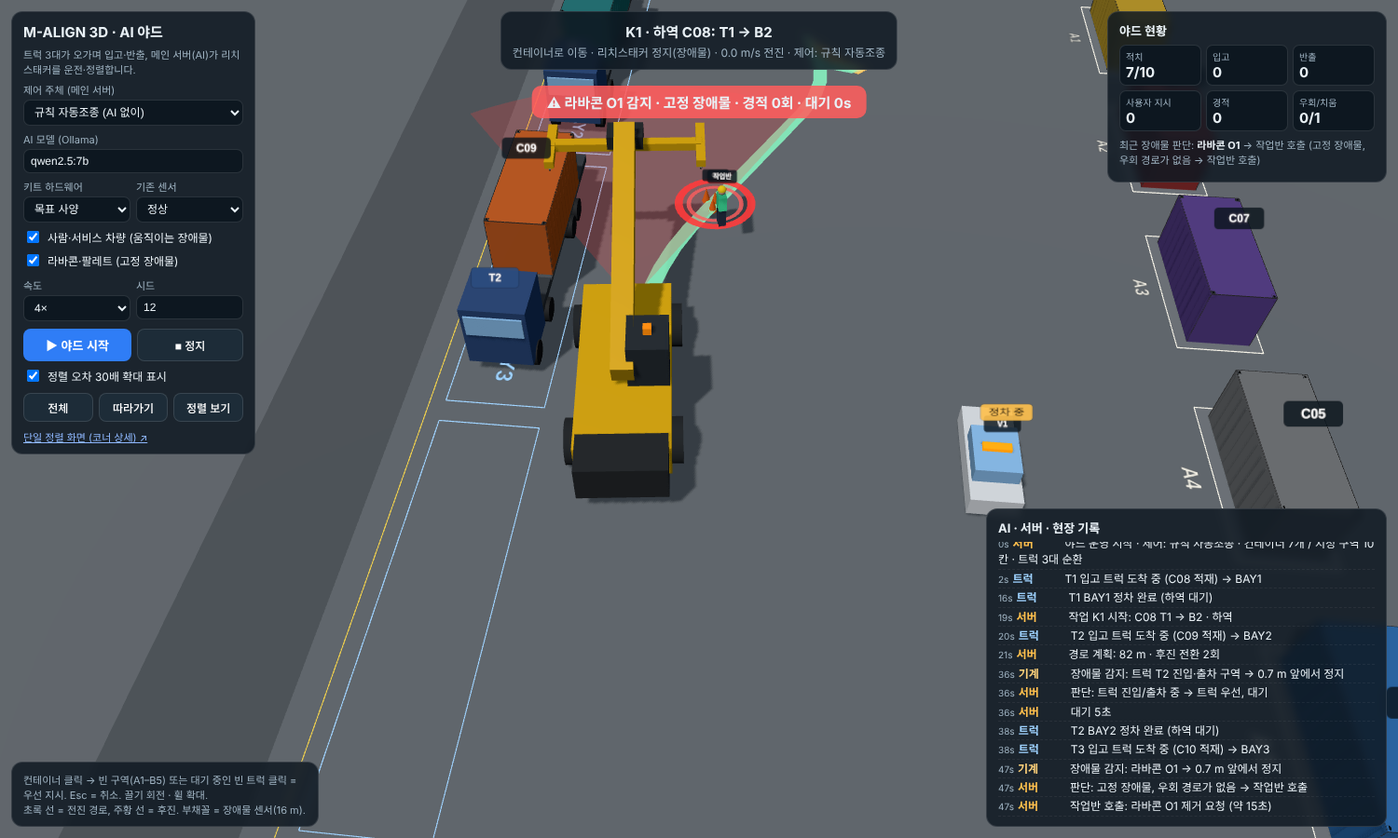
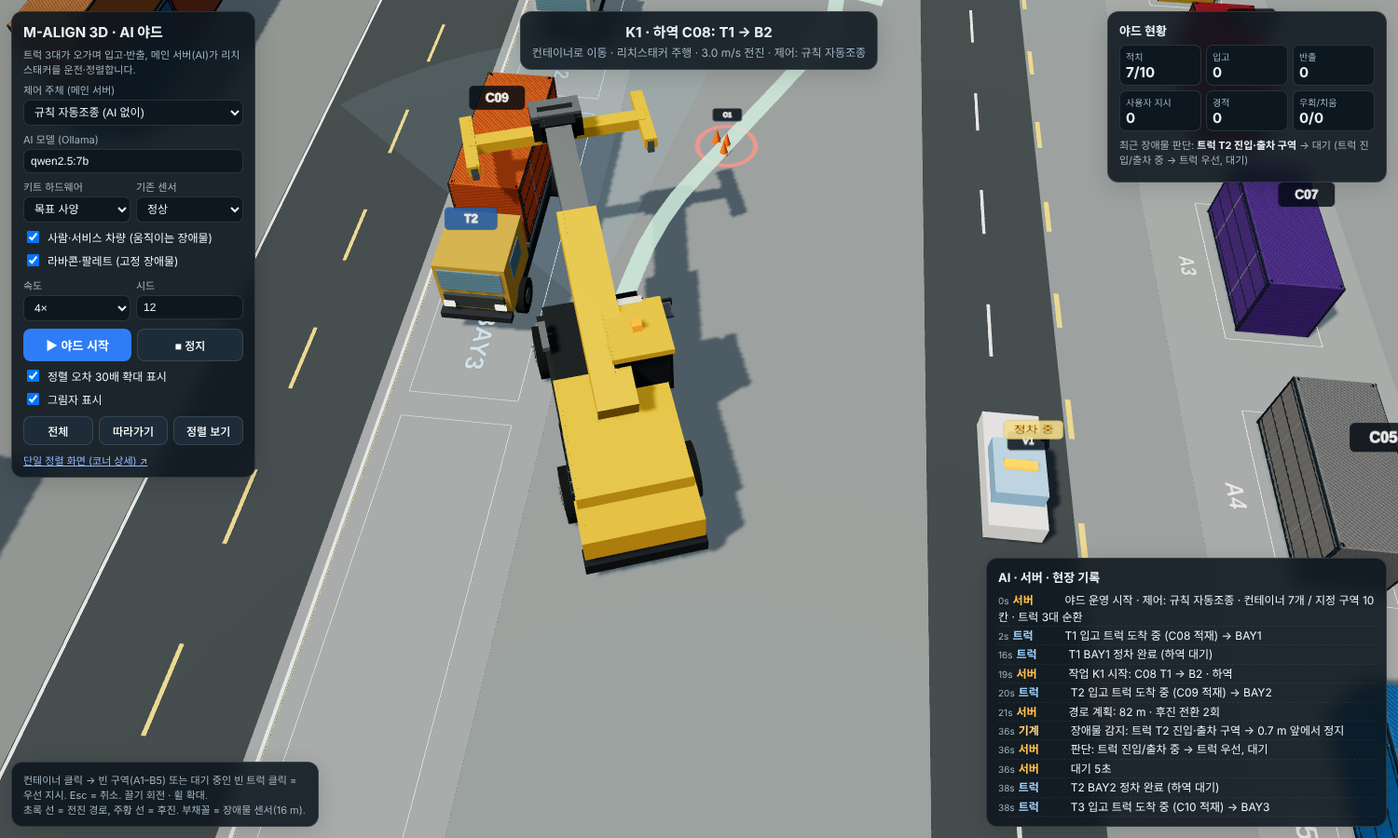
야드 3D 화면: 참고 HTML 비주얼 적용 + 재시작 시 키트 명령 ID 중복 수정
- 톤매핑·조명, 아스팔트 차로/서비스 도로/에이프런, 골판 컨테이너, 상세 트럭, 원경 적치·창고·갠트리 크레인
- 리치스태커 상세 모델: 후륜 조향 각도·바퀴 회전 표시, 텔레스코픽 붐·유압 실린더, 스프레더 상세
- 그림자 표시 토글
- LocalSim 명령 ID를 실행마다 고유하게 (재시작 후 키트가 중복으로 무시하던 문제)

Claude-Session: https://claude.ai/code/session_011pBbNqiHExWoQCh8MXwH7n

diff --git a/app/MALIGN_3D.html b/app/MALIGN_3D.html
@@ -5,10 +5,10 @@
 <meta name="viewport" content="width=device-width,initial-scale=1">
 <title>M-ALIGN 3D · AI 컨테이너 야드</title>
 <style>
-:root{--ink:#e9f1f6;--muted:#9fb3c2;--panel:rgba(14,24,33,.84);--line:rgba(255,255,255,.12);--ok:#3ddc97;--bad:#ff5d5d;--warn:#ffc04d;--ai:#8fb8ff}
-*{box-sizing:border-box}html,body{margin:0;height:100%;overflow:hidden;background:#9fbcd0;font-family:"Malgun Gothic","Apple SD Gothic Neo","Noto Sans KR",system-ui,sans-serif;color:var(--ink)}
+:root{--ink:#e9f1f6;--muted:#9fb3c2;--panel:rgba(12,22,30,.88);--line:rgba(255,255,255,.12);--ok:#3ddc97;--bad:#ff5d5d;--warn:#ffc04d;--ai:#8fb8ff}
+*{box-sizing:border-box}html,body{margin:0;height:100%;overflow:hidden;background:#b7c9d5;font-family:"Malgun Gothic","Apple SD Gothic Neo","Noto Sans KR",system-ui,sans-serif;color:var(--ink)}
 canvas#scene{display:block;width:100vw;height:100vh}
-.panel{position:absolute;background:var(--panel);border:1px solid var(--line);border-radius:12px;padding:10px 12px;backdrop-filter:blur(4px)}
+.panel{position:absolute;background:var(--panel);border:1px solid var(--line);border-radius:12px;padding:10px 12px;backdrop-filter:blur(10px);box-shadow:0 5px 24px rgba(0,0,0,.15)}
 #ctrl{left:12px;top:12px;width:262px;max-height:calc(100vh - 24px);overflow:auto}#ctrl h1{font-size:15px;margin:0 0 6px}
 #ctrl label{display:block;font-size:11px;color:var(--muted);margin:6px 0 3px}
 #ctrl select,#ctrl input:not([type=checkbox]){width:100%;background:#0d1720;color:var(--ink);border:1px solid var(--line);border-radius:7px;padding:5px 7px;font-size:12px}
@@ -52,6 +52,7 @@ button.sec{background:#1d2c38;border:1px solid var(--line);font-weight:500;font-
  <div><label for="seed">시드</label><input id="seed" placeholder="무작위"></div></div>
  <div class="row"><button id="start">▶ 야드 시작</button><button id="stop" class="sec" style="margin-top:8px">■ 정지</button></div>
  <label class="chk"><input type="checkbox" id="exag" checked> 정렬 오차 30배 확대 표시</label>
+ <label class="chk"><input type="checkbox" id="shadows" checked> 그림자 표시</label>
  <div class="row"><button class="sec" data-cam="all">전체</button><button class="sec" data-cam="follow">따라가기</button><button class="sec" data-cam="align">정렬 보기</button></div>
  <div style="font-size:11px;margin-top:8px"><a href="/3d-align" target="_blank" style="color:var(--ai)">단일 정렬 화면 (코너 상세) ↗</a></div>
 </div>
@@ -84,16 +85,17 @@ const esc = s => String(s).replace(/[&<>"]/g, c => ({'&': '&amp;', '<': '&lt;', 
 // ---------------- scene ----------------
 const canvas = $('scene');
 const renderer = new THREE.WebGLRenderer({canvas, antialias: true, preserveDrawingBuffer: true});
-renderer.setPixelRatio(Math.min(2, window.devicePixelRatio || 1)); renderer.shadowMap.enabled = true;
-const scene = new THREE.Scene(); scene.background = new THREE.Color(0x9fbcd0); scene.fog = new THREE.Fog(0x9fbcd0, 110, 260);
+renderer.setPixelRatio(Math.min(1.5, window.devicePixelRatio || 1)); renderer.shadowMap.enabled = true;
+renderer.outputColorSpace = THREE.SRGBColorSpace; renderer.toneMapping = THREE.ACESFilmicToneMapping; renderer.toneMappingExposure = 1.55;
+const scene = new THREE.Scene(); scene.background = new THREE.Color(0xb7c9d5); scene.fog = new THREE.Fog(0xb7c9d5, 120, 300);
 const camera = new THREE.PerspectiveCamera(45, 1, 0.1, 600);
-const HOME = {pos: new THREE.Vector3(-8, 78, 78), look: new THREE.Vector3(0, 0, 0)};
+const HOME = {pos: new THREE.Vector3(-52, 52, 72), look: new THREE.Vector3(0, 0, 0)};
 camera.position.copy(HOME.pos);
 const controls = new OrbitControls(camera, canvas); controls.target.copy(HOME.look); controls.enableDamping = true; controls.maxPolarAngle = Math.PI * .48;
-scene.add(new THREE.HemisphereLight(0xdfefff, 0x4a4a40, 1.1));
-const sun = new THREE.DirectionalLight(0xffffff, 1.9); sun.position.set(30, 60, 20); sun.castShadow = true;
-sun.shadow.mapSize.set(2048, 2048); Object.assign(sun.shadow.camera, {left: -70, right: 70, top: 70, bottom: -70, far: 200}); scene.add(sun);
-const ground = new THREE.Mesh(new THREE.PlaneGeometry(400, 400), new THREE.MeshStandardMaterial({color: 0x6b6f72, roughness: .95}));
+scene.add(new THREE.HemisphereLight(0xe4f1ff, 0x4a4a40, 1.1));
+const sun = new THREE.DirectionalLight(0xfff1dc, 2.15); sun.position.set(35, 70, 36); sun.castShadow = true;
+sun.shadow.mapSize.set(2048, 2048); Object.assign(sun.shadow.camera, {left: -80, right: 80, top: 80, bottom: -80, far: 200}); scene.add(sun);
+const ground = new THREE.Mesh(new THREE.PlaneGeometry(400, 400), new THREE.MeshStandardMaterial({color: 0x757b7c, roughness: 1}));
 ground.rotation.x = -Math.PI / 2; ground.receiveShadow = true; scene.add(ground);
 const std = (c, o = {}) => new THREE.MeshStandardMaterial(Object.assign({color: c, roughness: .7, metalness: .1}, o));
 function box(w, h, d, mat, x = 0, y = 0, z = 0){ const m = new THREE.Mesh(new THREE.BoxGeometry(w, h, d), mat); m.position.set(x, y, z); m.castShadow = m.receiveShadow = true; return m; }
@@ -113,14 +115,82 @@ function rectLine(cx, cz, yaw, hx, hz, color, y = .03){ const g = new THREE.Line
 
 const L = 6.058, W = 2.438, H = 2.591, CX = 2.9265, CY = 1.1295, DOCK = W / 2 + 6.3;
 const CORNERS = [[-CX, CY], [CX, CY], [CX, -CY], [-CX, -CY]];
-// yard markings
+// ---------------- terminal environment (low-poly) ----------------
+const asphalt = std(0x434b4f, {roughness: 1}), concrete = std(0x828a8c, {roughness: 1}), apronMat = std(0x8d9496, {roughness: 1});
+const lineWhite = new THREE.MeshBasicMaterial({color: 0xdce0d7}), lineYellow = new THREE.MeshBasicMaterial({color: 0xe8b954});
+const trim = std(0xb5bfc4, {metalness: .45, roughness: .52}), gantry = std(0xa5b3ad, {metalness: .35, roughness: .66});
+function placeRect(w, d, mat, x, z, y = .018){ const m = box(w, .025, d, mat, x, y, z); m.castShadow = false; scene.add(m); return m; }
+placeRect(94, 77, concrete, 0, -2.75, .008);                                    // yard pavement (stacker area)
+placeRect(240, 7, asphalt, 0, 38, .012);                                        // truck lane
+for (let x = -110; x <= 110; x += 6) placeRect(2.7, .13, lineYellow, x, 38, .045);
+for (const z of [34.6, 41.4]) placeRect(240, .1, lineWhite, 0, z, .045);
+// service road (car loop) and its centre dashes
+placeRect(84, 4.6, asphalt, 0, -32, .016); placeRect(84, 4.6, asphalt, 0, 14, .016);
+placeRect(4.6, 50.6, asphalt, -40, -9, .016); placeRect(4.6, 50.6, asphalt, 40, -9, .016);
+for (let x = -36; x <= 36; x += 6){ placeRect(2.4, .12, lineWhite, x, -32, .05); placeRect(2.4, .12, lineWhite, x, 14, .05); }
+for (let z = -28; z <= 10; z += 6){ placeRect(.12, 2.4, lineWhite, -40, z, .05); placeRect(.12, 2.4, lineWhite, 40, z, .05); }
+placeRect(54, 7.5, apronMat, -4, 4, .02); placeRect(54, 7.5, apronMat, -4, -14, .02);     // stacking aprons (rows A, B)
+placeRect(54, 6, apronMat, -4, 32, .02);                                         // truck bays apron
+// yellow guide lines along the stacker approach aisles
+for (let i = 0; i < 12; i++){ placeRect(1.6, .18, lineYellow, -30 + i * 4.8, 11.5, .055); placeRect(1.6, .18, lineYellow, -30 + i * 4.8, -21.5, .055); }
 scene.add(rectLine(0, -2.75, 0, 46, 37.25, 0xf2d24b));                      // where the stacker may drive
-const lane = new THREE.Mesh(new THREE.PlaneGeometry(200, 5), new THREE.MeshStandardMaterial({color: 0x55595c, roughness: 1}));
-lane.rotation.x = -Math.PI / 2; lane.position.set(0, .01, 38); scene.add(lane);
-const laneTxt = flatText('트럭 차로 →', 8, 2.6, '#d9dde0'); laneTxt.position.set(-38, .03, 38); scene.add(laneTxt);
-for (const [x, z] of [[-36, -26], [28, -27], [-38, 20], [30, 21]]){ const p = new THREE.Mesh(new THREE.CylinderGeometry(.22, .3, 11, 12), std(0x9aa3a8, {metalness: .5})); p.position.set(x, 5.5, z); p.castShadow = true; scene.add(p);
-  scene.add(box(1.4, .25, .5, std(0xeeeeee, {emissive: 0xfff4c8, emissiveIntensity: .5}), x, 11, z)); }
-scene.add(box(8, 3.4, 4, std(0xc9ccc5), 40, 1.7, -37.5)); { const t = label('현장 사무소', 3.4, 1.2); t.position.set(40, 4.6, -37.5); scene.add(t); }
+const laneTxt = flatText('트럭 차로 →', 8, 2.6, '#d9dde0'); laneTxt.position.set(-38, .06, 38); scene.add(laneTxt);
+// lighting masts (they are real obstacles in the planner: same positions)
+const lampGlow = new THREE.MeshBasicMaterial({color: 0xf9edc5});
+for (const [x, z] of [[-36, -26], [28, -27], [-38, 20], [30, 21]]){ const pole = new THREE.Group(); pole.position.set(x, 0, z); scene.add(pole);
+  pole.add(box(.5, .4, .5, std(0x6d7375), 0, .2, 0)); pole.add(box(.24, 13, .24, std(0x8c9797, {metalness: .7}), 0, 6.5, 0));
+  pole.add(box(2.0, .15, .33, gantry, .9, 13.1, 0)); pole.add(box(.65, .08, .28, lampGlow, 1.3, 13, 0)); }
+// site office
+{ const o = new THREE.Group(); o.position.set(40, 0, -37.5); scene.add(o);
+  o.add(box(8, 3.4, 4, std(0xc9ccc5), 0, 1.7, 0)); o.add(box(8.4, .25, 4.4, std(0x5b6870), 0, 3.5, 0));
+  for (const x of [-2.6, 0, 2.6]) o.add(box(1.4, .9, .05, std(0x52778a, {roughness: .12, metalness: .28}), x, 2.1, 2.03));
+  const t = label('현장 사무소', 3.4, 1.2); t.position.set(0, 5, 0); o.add(t); }
+
+// corrugated container (one geometry per side instead of many ribs)
+function corrugatedSide(length, height, depth, flip = 1){
+  const points = [], faces = [], y0 = .19, y1 = height - .13, n = Math.round(length / .29);
+  for (let i = 0; i <= n * 2; i++){ const x = -length / 2 + (i / (n * 2)) * length, z = flip * (depth / 2 + .016 + (i % 2 === 0 ? .033 : 0));
+    points.push(x, y0, z, x, y1, z); if (i > 0){ const a = (i - 1) * 2, b = i * 2; faces.push(a, a + 1, b, a + 1, b + 1, b); } }
+  const geom = new THREE.BufferGeometry(); geom.setAttribute('position', new THREE.Float32BufferAttribute(points, 3)); geom.setIndex(faces); geom.computeVertexNormals(); return geom;
+}
+const frameMat = std(0x273b46, {roughness: .6, metalness: .25}), castMat = std(0x263843, {metalness: .36});
+function cargoBox(col, extra = true){
+  const g = new THREE.Group(), mat = std(col, {metalness: .1, roughness: .8, side: THREE.DoubleSide});
+  const main = box(L, H, W, mat, 0, H / 2, 0); g.add(main);
+  for (const f of [1, -1]){ const side = new THREE.Mesh(corrugatedSide(L, H, W, f), mat); side.castShadow = true; g.add(side); }
+  for (const x of [-2.99, 2.99]){ g.add(box(.08, 2.56, .085, frameMat, x, 1.30, 1.225)); g.add(box(.08, 2.56, .085, frameMat, x, 1.30, -1.225)); }
+  for (const y of [.12, 2.53]){ g.add(box(5.95, .07, .08, frameMat, 0, y, 1.22)); g.add(box(5.95, .07, .08, frameMat, 0, y, -1.22)); }
+  if (extra){ for (const x of [-1.44, 1.44]) g.add(box(.026, 2.32, .04, trim, x, 1.30, -1.247));
+    for (let y = .35; y < 2.4; y += .68) g.add(box(5.96, .025, .044, frameMat, 0, y, -1.249)); }
+  return {g, main};
+}
+// distant stacks, warehouse and a working gantry crane (decor, outside the yard)
+function placeStacks(x, z, rows = 2, layers = 2, axis = 'x'){
+  const cols = [0x476c85, 0x9c5940, 0x597265, 0xb9ae8e, 0x4a7193, 0xa46d3e];
+  for (let a = 0; a < rows; a++) for (let layer = 0; layer < layers; layer++){
+    const {g} = cargoBox(cols[(a * 3 + layer + Math.abs(Math.round(x + z))) % cols.length], false);
+    g.position.set(x + (axis === 'x' ? a * 6.18 : 0), layer * 2.6, z + (axis === 'z' ? a * 2.65 : 0)); scene.add(g); } }
+placeStacks(-30, -52, 4, 3); placeStacks(14, -52, 3, 2); placeStacks(-34, 50, 5, 2); placeStacks(16, 50, 3, 3);
+placeStacks(-60, -22, 3, 2, 'z'); placeStacks(-60, 6, 4, 3, 'z');
+{ const wh = new THREE.Group(); wh.position.set(-84, 0, -6); scene.add(wh);
+  wh.add(box(24, 9, 42, std(0x71818a), 0, 4.5, 0)); wh.add(box(25, .5, 43, std(0x4c5961), 0, 9.2, 0));
+  for (let z = -16; z <= 16; z += 8) wh.add(box(.12, 6.1, 4.3, std(0x2d454f), 12.12, 3.2, z)); }
+const crane = new THREE.Group(); crane.position.set(70, 0, -10); scene.add(crane);
+for (const z of [-15, 15]){ for (const x of [-5, 5]) crane.add(box(.62, 17, .62, gantry, x, 8.5, z)); crane.add(box(11, .65, .8, gantry, 0, 16.7, z)); }
+for (const x of [-5, 5]) crane.add(box(.15, .15, 30.7, gantry, x, 17.5, 0));
+crane.add(box(13, 1.12, 32, gantry, 0, 18.1, 0));
+const trolley = new THREE.Group(); crane.add(trolley); trolley.position.set(0, 17.3, 0); trolley.add(box(3, .65, 2.6, std(0xe8b84d), 0, 0, 0));
+const craneRopes = []; for (const x of [-1.1, 1.1]) for (const z of [-.8, .8]){ const r = box(.05, 1, .05, trim); crane.add(r); craneRopes.push({r, x, z}); }
+const craneLoad = cargoBox(0x8e573d, false).g; crane.add(craneLoad);
+function updateCrane(seconds){
+  const t = seconds % 34, lerp = (a, b, k) => a + (b - a) * Math.max(0, Math.min(1, k)); let z, y, on;
+  if (t < 4){ z = -11; y = 0; on = false; } else if (t < 8){ z = -11; y = lerp(0, 9, (t - 4) / 4); on = true; }
+  else if (t < 13){ z = lerp(-11, .4, (t - 8) / 5); y = 9; on = true; } else if (t < 17){ z = .4; y = lerp(9, 0, (t - 13) / 4); on = true; }
+  else if (t < 21){ z = .4; y = 0; on = false; } else if (t < 24){ z = .4; y = lerp(0, 9, (t - 21) / 3); on = true; }
+  else if (t < 29){ z = lerp(.4, -11, (t - 24) / 5); y = 9; on = true; } else if (t < 33){ z = -11; y = lerp(9, 0, (t - 29) / 4); on = true; } else { z = -11; y = 0; on = false; }
+  craneLoad.position.set(0, y, z); trolley.position.z = z; const top = y + 2.59;
+  for (const c of craneRopes){ c.r.visible = on; if (on){ c.r.scale.y = Math.max(.1, 17.3 - top); c.r.position.set(c.x, (17.3 + top) / 2, z + c.z); } }
+}
 
 // ---------------- dynamic objects ----------------
 const pickables = [];
@@ -141,12 +211,9 @@ function makeBay(b){
 }
 const cont = {};
 function makeContainer(c){
-  const g = new THREE.Group(); const mat = std(new THREE.Color(c.color), {roughness: .8});
-  const b = box(L, H, W, mat, 0, H / 2, 0); b.userData = {cid: c.id}; g.add(b); pickables.push(b);
-  const ed = new THREE.LineSegments(new THREE.EdgesGeometry(new THREE.BoxGeometry(L, H, W)), new THREE.LineBasicMaterial({color: 0x222222})); ed.position.y = H / 2; g.add(ed);
-  for (let i = -11; i <= 11; i += 2) g.add(box(.05, H * .9, W + .01, std(new THREE.Color(c.color).multiplyScalar(.82)), i * .26, H / 2, 0));
+  const {g, main: b} = cargoBox(new THREE.Color(c.color)); b.userData = {cid: c.id}; pickables.push(b);
   const holes = [];
-  for (let k = 0; k < 4; k++){ g.add(box(.178, .118, .162, std(0x3c4247, {metalness: .5}), CORNERS[k][0], H - .059, CORNERS[k][1]));
+  for (let k = 0; k < 4; k++){ g.add(box(.178, .118, .162, castMat, CORNERS[k][0], H - .059, CORNERS[k][1]));
     const hole = new THREE.Mesh(new THREE.CircleGeometry(.05, 16), new THREE.MeshBasicMaterial({color: 0x050505})); hole.scale.set(1.25, .62, 1);
     hole.rotation.x = -Math.PI / 2; hole.position.set(CORNERS[k][0], H + .003, CORNERS[k][1]); g.add(hole); holes.push(hole); }
   const lb = label(c.id, 2.0, .9); lb.position.set(0, H + 1.3, 0); g.add(lb);
@@ -156,15 +223,21 @@ function makeContainer(c){
 }
 const truckObjs = {};
 function makeTruck(t){
-  const g = new THREE.Group();   // origin = container centre on the trailer, local +z = forward
-  const body = std(0x2b4c7e);
-  g.add(box(2.3, .35, 12.4, std(0x3a3f44), 0, 1.1, 1.0));
-  const cab = box(2.5, 2.7, 2.3, body, 0, 2.0, 6.3); cab.userData = {truck: t.id}; g.add(cab); pickables.push(cab);
-  g.add(box(2.2, .9, .1, std(0x9fd3ff, {roughness: .1}), 0, 2.6, 7.47));
-  const deck = box(2.4, .12, 6.4, std(0x555a5f), 0, 1.24, 0); deck.userData = {truck: t.id}; g.add(deck); pickables.push(deck);
-  for (const z of [-2.2, -1.0, 4.2, 6.6]) for (const x of [-1.1, 1.1]){ const w = new THREE.Mesh(new THREE.CylinderGeometry(.5, .5, .4, 16), std(0x1d1f21)); w.rotation.z = Math.PI / 2; w.position.set(x, .5, z); g.add(w); }
-  const lb = label(t.id, 1.8, .8, 'rgba(43,76,126,.9)'); lb.position.set(0, 4.0, 6.3); g.add(lb);
-  scene.add(g); return {g};
+  const g = new THREE.Group(), o = new THREE.Group(); o.position.z = 2.6; g.add(o);   // origin = container centre on the trailer, +z forward
+  const cabCol = {T1: 0xe0e4d9, T2: 0xd4a53e, T3: 0x86b7b2}[t.id] || 0xd9ecea;
+  const cabM = std(cabCol, {metalness: .24, roughness: .58}), chassis = std(0x303a40), glass = std(0x7096a6, {metalness: .1, roughness: .18});
+  o.add(box(2.5, .50, 9.0, chassis, 0, .94, -1.9));
+  const cab = box(2.48, 2.15, 2.65, cabM, 0, 2.12, 2.10); cab.userData = {truck: t.id}; o.add(cab); pickables.push(cab);
+  o.add(box(2.18, .9, .055, glass, 0, 2.59, 3.46)); for (const x of [-1.26, 1.26]) o.add(box(.045, .82, 1.2, glass, x, 2.56, 2.17));
+  o.add(box(2.5, .25, .34, std(0x31363b), 0, 1.06, 3.6)); o.add(box(2.1, .55, .16, std(0x444c4e), 0, 1.65, 3.47));
+  for (const x of [-.9, .9]){ o.add(box(.39, .25, .08, lampGlow, x, 1.51, 3.58)); o.add(box(.33, .23, .08, std(0xd94b3a), x, 1.10, -6.53)); }
+  const deck = box(2.48, .18, 6.3, std(0x848b8c), 0, 1.42, -2.65); deck.userData = {truck: t.id}; o.add(deck); pickables.push(deck);
+  const wheelmat = std(0x1f2427, {roughness: .98}), hub = std(0x9ca5a5, {metalness: .66, roughness: .3}), spins = [];
+  for (const z of [2.2, -3.8, -5.15]) for (const x of [-1.28, 1.28]){ const w = new THREE.Group(); w.position.set(x, .66, z); o.add(w); spins.push(w);
+    const tyre = new THREE.Mesh(new THREE.CylinderGeometry(.65, .65, .34, 20), wheelmat); tyre.rotation.z = Math.PI / 2; w.add(tyre);
+    const rim = new THREE.Mesh(new THREE.CylinderGeometry(.29, .29, .36, 16), hub); rim.rotation.z = Math.PI / 2; w.add(rim); }
+  const lb = label(t.id, 1.8, .8, 'rgba(43,76,126,.9)'); lb.position.set(0, 4.2, 4.7); g.add(lb);
+  scene.add(g); return {g, spins};
 }
 function makeWorker(w, vest = 0xff7a00){
   const g = new THREE.Group();
@@ -196,33 +269,57 @@ function makeDebris(d){
   g.position.set(d.x, 0, d.z); g.rotation.y = d.yaw; scene.add(g); return {g, ring, crew};
 }
 
-// ---------------- reach stacker (same model as the alignment view) ----------------
-const yellow = std(0xf2b705, {roughness: .55}), dark = std(0x222629, {roughness: .9}), steel = std(0x8d969c, {metalness: .6, roughness: .4});
-const stacker = new THREE.Group(); scene.add(stacker);
-stacker.add(box(3.4, 1.4, 8.2, yellow, 0, 1.55, -1.0)); stacker.add(box(3.2, 1.5, 1.6, dark, 0, 1.6, -5.3));
-stacker.add(box(1.5, 1.9, 1.7, std(0x30363b, {roughness: .3}), -.9, 3.15, -1.4));
-stacker.add(box(1.3, 1.5, 1.5, std(0x9fd3ff, {roughness: .1, opacity: .45, transparent: true}), -.9, 3.25, -1.4));
-const wheels = [];
-for (const [x, z] of [[-1.75, 2.2], [1.75, 2.2], [-1.75, -3.6], [1.75, -3.6]]){
-  const w = new THREE.Group(); w.position.set(x, .85, z); const m = new THREE.Mesh(new THREE.CylinderGeometry(.85, .85, .7, 24), dark); m.rotation.z = Math.PI / 2; m.castShadow = true; w.add(m); stacker.add(w); wheels.push(w); }
-const beacon = box(.3, .3, .3, std(0xff8a00, {emissive: 0xff8a00, emissiveIntensity: 1}), -.9, 4.25, -1.4); stacker.add(beacon);
+// ---------------- reach stacker (detailed model, rear-axle steering, telescoping boom) ----------------
+const yellow = std(0xf0b51e, {roughness: .47, metalness: .12}), dark = std(0x20272c, {roughness: .9}), steel = std(0x9da8ad, {metalness: .66, roughness: .37});
+const rubber = std(0x191d20, {roughness: .97}), wheelMetal = std(0xa5aeb0, {roughness: .36, metalness: .7}), cabGlass = std(0x52778a, {roughness: .12, metalness: .28});
+const stacker = new THREE.Group(); scene.add(stacker);   // local +z = forward
+stacker.add(box(3.3, .85, 8.5, dark, 0, 1.34, -.85)); stacker.add(box(3.5, 1.55, 4.4, yellow, 0, 2.02, -2.75));
+stacker.add(box(3.65, 1.0, 1.6, std(0xe7aa17, {roughness: .56}), 0, 1.75, -5.32)); stacker.add(box(3.75, .48, .6, dark, 0, .83, -5.95));
+stacker.add(box(3.8, .25, .65, dark, 0, .92, 3.33));
+for (const sx of [-1, 1]){ stacker.add(box(.18, .6, 4.4, std(0x252b2e), sx * 1.72, 1.35, -.30)); stacker.add(box(.17, .19, 2.2, steel, sx * 1.75, 2.04, -3.2)); stacker.add(box(.24, .19, 1.15, steel, sx * 1.76, 2.16, 1.8)); }
+const cabG = new THREE.Group(); cabG.position.set(-1.03, 2.60, -.45); stacker.add(cabG);
+cabG.add(box(1.78, 1.85, 1.96, dark, 0, .75, 0)); cabG.add(box(1.57, 1.40, 1.80, cabGlass, 0, .89, .03)); cabG.add(box(1.9, .22, 2.15, yellow, 0, 1.77, .02));
+for (const sx of [-.78, .78]){ cabG.add(box(.074, 1.45, .06, dark, sx, .85, 1.01)); cabG.add(box(.07, 1.45, .06, dark, sx, .85, -.96)); }
+cabG.add(box(1.57, .085, .06, dark, 0, .79, 1.005)); cabG.add(box(.32, .10, .75, steel, -1.14, 1.27, 1.07)); cabG.add(box(.43, .27, .10, dark, -1.14, 1.25, 1.33));
+cabG.add(box(.75, .18, .27, std(0xe8e7d0), 0, 1.81, 1.11));
+for (let z = -4.6; z < -2.0; z += .36) stacker.add(box(.05, .43, .07, dark, 1.8, 2.4, z));
+for (let i = 0; i < 4; i++) stacker.add(box(.14, .07, .65, steel, -1.75, .85 + i * .29, 1.15));
+const steeringWheels = [], allWheelSpins = [];
+function wheelAssembly(x, z, rear){
+  const pivot = new THREE.Group(); pivot.position.set(x, .86, z); stacker.add(pivot);
+  const spin = new THREE.Group(); pivot.add(spin); allWheelSpins.push(spin);
+  const tyre = new THREE.Mesh(new THREE.CylinderGeometry(.91, .91, .65, 32), rubber); tyre.rotation.z = Math.PI / 2; tyre.castShadow = true; spin.add(tyre);
+  const side = new THREE.Mesh(new THREE.CylinderGeometry(.71, .71, .68, 28), std(0x24292d)); side.rotation.z = Math.PI / 2; spin.add(side);
+  const rim = new THREE.Mesh(new THREE.CylinderGeometry(.46, .46, .72, 24), wheelMetal); rim.rotation.z = Math.PI / 2; spin.add(rim);
+  const hub = new THREE.Mesh(new THREE.CylinderGeometry(.18, .18, .76, 20), dark); hub.rotation.z = Math.PI / 2; spin.add(hub);
+  for (let i = 0; i < 8; i++){ const a = i * Math.PI / 4, bolt = new THREE.Mesh(new THREE.SphereGeometry(.035, 7, 6), steel); bolt.position.set(x > 0 ? .4 : -.4, Math.sin(a) * .28, Math.cos(a) * .28); spin.add(bolt); }
+  if (rear) steeringWheels.push(pivot);
+}
+for (const x of [-1.8, 1.8]){ wheelAssembly(x, 2.2, false); wheelAssembly(x, -3.55, true); }
+const WHEELBASE = 5.75, STEER_MAX = .56;
+const beacon = box(.3, .3, .3, std(0xff8a00, {emissive: 0xff8a00, emissiveIntensity: 1}), -1.03, 4.6, -.45); stacker.add(beacon);
 const hornTxt = label('♪ 빵빵!', 2.6, 1.0, 'rgba(255,93,93,.92)'); hornTxt.position.set(0, 6.5, -1); hornTxt.visible = false; stacker.add(hornTxt);
 // obstacle sensor fan (16 m)
 const fanMat = new THREE.MeshBasicMaterial({color: 0x46c7ff, transparent: true, opacity: .10, side: THREE.DoubleSide, depthWrite: false});
 const fan = new THREE.Mesh(new THREE.CircleGeometry(16, 32, -Math.PI / 2 - .55, 1.1), fanMat); fan.rotation.x = -Math.PI / 2; fan.position.y = .05; stacker.add(fan);
-const boom = box(.8, .9, 1, yellow); scene.add(boom);
-const cyl = box(.25, .25, 1, steel); scene.add(cyl);
+const boom = box(1.26, 1.25, 1, yellow); scene.add(boom);
+const boomInner = box(.85, .78, 1, steel); scene.add(boomInner);
+const boomTip = box(1.15, .92, .76, dark); scene.add(boomTip);
+const cyl = box(.32, .32, 1, steel); scene.add(cyl);
+const cylSleeve = box(.48, .48, 1, dark); scene.add(cylSleeve);
 const spreader = new THREE.Group(); scene.add(spreader);
-spreader.add(box(5.9, .32, .42, yellow, 0, .35, 0)); spreader.add(box(.36, .3, 2.5, yellow, CX, .32, 0)); spreader.add(box(.36, .3, 2.5, yellow, -CX, .32, 0));
-spreader.add(box(1.4, .55, 1.0, dark, 0, .75, 0));
-for (let k = 0; k < 4; k++){ const c = new THREE.Mesh(new THREE.ConeGeometry(.055, .12, 4), std(0x9aa3a8, {metalness: .6})); c.rotation.x = Math.PI; c.position.set(CORNERS[k][0], .01, CORNERS[k][1]); spreader.add(c); }
+spreader.add(box(5.93, .4, .52, yellow, 0, .43, 0)); spreader.add(box(.42, .38, 2.53, yellow, CX, .42, 0)); spreader.add(box(.42, .38, 2.53, yellow, -CX, .42, 0));
+for (const x of [-2.92, 2.92]) for (const z of [-1.13, 1.13]) spreader.add(box(.22, .48, .28, steel, x, .28, z));
+spreader.add(box(1.65, .73, 1.05, dark, 0, .95, 0)); spreader.add(box(1.65, .12, .8, steel, 0, 1.42, 0));
+const lockCones = [];
+for (let k = 0; k < 4; k++){ const c = new THREE.Mesh(new THREE.ConeGeometry(.065, .12, 6), std(0xaab4b9, {metalness: .6})); c.rotation.x = Math.PI; c.position.set(CORNERS[k][0], .03, CORNERS[k][1]); spreader.add(c); lockCones.push(c); }
 const pathLine = new THREE.Mesh(new THREE.BufferGeometry(), new THREE.MeshBasicMaterial({vertexColors: true, transparent: true, opacity: .85, side: THREE.DoubleSide, depthWrite: false}));
 pathLine.frustumCulled = false; scene.add(pathLine);
 const alertRing = new THREE.Mesh(new THREE.RingGeometry(1.6, 2.0, 40), new THREE.MeshBasicMaterial({color: 0xff3b3b, transparent: true, opacity: .9, side: THREE.DoubleSide}));
 alertRing.rotation.x = -Math.PI / 2; alertRing.position.y = .06; alertRing.visible = false; scene.add(alertRing);
 
 // ---------------- state sync ----------------
-let S = null, pose = {x: 34, z: -4, yaw: 0, h: H + 2.6}, built = false, selected = null, lastLogKey = '';
+let steerNow = 0, S = null, pose = {x: 34, z: -4, yaw: 0, h: H + 2.6}, built = false, selected = null, lastLogKey = '';
 const workerObjs = {}; let carObj = null;
 function lerpAng(a, b, f){ let d = b - a; while (d > Math.PI) d -= 2 * Math.PI; while (d < -Math.PI) d += 2 * Math.PI; return a + d * f; }
 function buildStatic(st){ if (built) return; built = true; st.slots.forEach(makeSlot); st.bays.forEach(makeBay); }
@@ -287,9 +384,17 @@ function sync(st){
 function place(dt){
   if (!S) return;
   const f = 1 - Math.exp(-dt * 12), s = S.stacker;
+  const px0 = pose.x, pz0 = pose.z, py0 = pose.yaw;
   pose.x += (s.x - pose.x) * f; pose.z += (s.z - pose.z) * f; pose.yaw = lerpAng(pose.yaw, s.yaw, f); pose.h += (s.h - pose.h) * f;
   stacker.position.set(pose.x, 0, pose.z); stacker.rotation.y = pose.yaw;
-  for (let i = 0; i < 2; i++) wheels[2 + i].rotation.y = 0;
+  // wheels: spin by travelled distance, rear axle steers by the turn rate (no pivot turns)
+  const ds = (pose.x - px0) * Math.sin(pose.yaw) + (pose.z - pz0) * Math.cos(pose.yaw);
+  let dyaw = pose.yaw - py0; while (dyaw > Math.PI) dyaw -= 2 * Math.PI; while (dyaw < -Math.PI) dyaw += 2 * Math.PI;
+  const target = Math.abs(ds) > 1e-4 ? Math.max(-STEER_MAX, Math.min(STEER_MAX, -Math.atan(WHEELBASE * dyaw / ds))) : steerNow;
+  steerNow += (target - steerNow) * Math.min(1, dt * 6);
+  for (const w of steeringWheels) w.rotation.y = steerNow;
+  for (const w of allWheelSpins) w.rotation.x += ds / .91;
+  for (const c of lockCones) c.material.color.set(s.carry || s.mode === 'aligning' && S.align && S.align.phase === 'done' ? 0x3ddc97 : 0xaab4b9);
   beacon.material.emissiveIntensity = (s.mode === 'driving' && Math.floor(performance.now() / 300) % 2) ? 1.4 : .3;
   hornTxt.visible = s.horn;
   const blocked = s.mode === 'blocked';
@@ -303,16 +408,21 @@ function place(dt){
   spreader.position.set(pose.x + fx + ox, pose.h, pose.z + fz + oz); spreader.rotation.y = pose.yaw + oth;
   const head = new THREE.Vector3(spreader.position.x, spreader.position.y + 1.05, spreader.position.z);
   const [px, pz] = rot(pose.yaw, 0, -2.4), pivot = new THREE.Vector3(pose.x + px, 3.0, pose.z + pz);
-  const mid = pivot.clone().add(head).multiplyScalar(.5);
-  boom.position.copy(mid); boom.scale.set(1, 1, pivot.distanceTo(head)); boom.lookAt(head);
-  const [bx, bz] = rot(pose.yaw, 0, 1.8), base = new THREE.Vector3(pose.x + bx, 1.9, pose.z + bz);
-  cyl.position.copy(base.clone().add(mid).multiplyScalar(.5)); cyl.scale.set(1, 1, base.distanceTo(mid)); cyl.lookAt(mid);
+  const len = pivot.distanceTo(head), dir = head.clone().sub(pivot).normalize();
+  boom.position.copy(pivot.clone().addScaledVector(dir, len * .32)); boom.scale.set(1, 1, len * .64); boom.lookAt(head);
+  boomInner.position.copy(pivot.clone().addScaledVector(dir, len * .78)); boomInner.scale.set(1, 1, len * .42); boomInner.lookAt(head);
+  boomTip.position.copy(head.clone().addScaledVector(dir, -.23)); boomTip.lookAt(head);
+  const [bx, bz] = rot(pose.yaw, 0, 1.65), base = new THREE.Vector3(pose.x + bx, 1.85, pose.z + bz), hydTop = pivot.clone().lerp(head, .62);
+  cyl.position.copy(base.clone().add(hydTop).multiplyScalar(.5)); cyl.scale.set(1, 1, base.distanceTo(hydTop)); cyl.lookAt(hydTop);
+  const sleeveEnd = base.clone().lerp(hydTop, .53);
+  cylSleeve.position.copy(base.clone().add(sleeveEnd).multiplyScalar(.5)); cylSleeve.scale.set(1, 1, base.distanceTo(sleeveEnd)); cylSleeve.lookAt(hydTop);
   // containers
   for (const id in cont){ const o = cont[id], c = o.data;
     if (c.where === 'stacker'){ o.g.position.set(pose.x + fx, pose.h - H, pose.z + fz); o.g.rotation.y = pose.yaw; }
     else { o.g.position.x += (c.x - o.g.position.x) * f; o.g.position.z += (c.z - o.g.position.z) * f; o.g.position.y += (c.y - o.g.position.y) * f; o.g.rotation.y = lerpAng(o.g.rotation.y, c.yaw, f); }
   }
   for (const id in truckObjs){ const o = truckObjs[id], t = o.data; o.g.visible = t.state !== 'away';
+    const tds = Math.hypot(t.x - o.g.position.x, t.z - o.g.position.z) * f; if (tds < 5) for (const w of o.spins) w.rotation.x += tds / .65;
     o.g.position.x += (t.x - o.g.position.x) * f; o.g.position.z += (t.z - o.g.position.z) * f; o.g.rotation.y = lerpAng(o.g.rotation.y, t.yaw, f);
     if (Math.abs(t.x - o.g.position.x) > 20) o.g.position.set(t.x, 0, t.z); }
   for (const id in workerObjs){ const o = workerObjs[id], w = o.data; o.g.position.x += (w.x - o.g.position.x) * f; o.g.position.z += (w.z - o.g.position.z) * f; o.g.rotation.y = lerpAng(o.g.rotation.y, w.yaw, f); o.phone.visible = w.state === 'phone'; }
@@ -387,7 +497,8 @@ function resize(){ const w = window.innerWidth, h = window.innerHeight; renderer
 window.addEventListener('resize', resize); resize();
 let last = performance.now();
 function loop(now){ const dt = Math.min(.1, (now - last) / 1000); last = now;
-  place(dt); camera_update();
+  place(dt); camera_update(); updateCrane(now / 1000);
+  const sh = $('shadows').checked; if (renderer.shadowMap.enabled !== sh){ renderer.shadowMap.enabled = sh; scene.traverse(o => { if (o.material) o.material.needsUpdate = true; }); }
   if (camGoal){ const g = 1 - Math.pow(.03, dt); camera.position.lerp(camGoal.pos, g); controls.target.lerp(camGoal.look, g);
     if (camMode === 'free' && camera.position.distanceTo(camGoal.pos) < .05) camGoal = null; }
   controls.update(); renderer.render(scene, camera); requestAnimationFrame(loop); }

diff --git a/app/sim_bridge.py b/app/sim_bridge.py
@@ -7,6 +7,7 @@ server_url set: the virtual site runs in the example main server; the kit's simu
 Either way the kit itself is unchanged: it only sees commands and sends bundles.
 """
 import json
+import secrets
 import threading
 import time
 import urllib.parse
@@ -20,6 +21,7 @@ class LocalSim:
         cfg = link.cfg
         self.link = link
         self.n = 0
+        self.run_id = secrets.token_hex(3)
         self.site = SimSite(M, self._send, link.kit_id, approach_s=1.0, move_s=float(cfg['sim_move_delay_s']),
                             max_rounds=int(cfg['sim_rounds']), ai_url=cfg['ai_ollama_url'], ai_model=cfg['ai_model'])
         link.observers.append(self._observe)
@@ -27,7 +29,7 @@ class LocalSim:
 
     def _send(self, cmd, delay):
         self.n += 1
-        cmd = dict(cmd, id='local-%d' % self.n)
+        cmd = dict(cmd, id='local-%s-%d' % (self.run_id, self.n))   # unique across restarts (the kit drops repeated ids)
         t = threading.Timer(max(0.0, float(delay)), self.link.apply_command, args=(cmd,))
         t.daemon = True
         t.start()

diff --git a/app/yard_ops.py b/app/yard_ops.py
@@ -32,7 +32,7 @@ TRUCK_IDS = ('T1', 'T2', 'T3')
 COLORS = ('#d2601a', '#2a6fb0', '#2f8a4a', '#9b2d2d', '#7a7a7a', '#c8a024', '#5b3f8c', '#1f7a7a')
 TRAVEL_H = Y.H + 2.6                  # spreader height while driving empty
 CARRY_LIFT = 2.2                      # container bottom height while carrying
-TRUCK_BED = 1.3                       # container bottom on a trailer
+TRUCK_BED = 1.5                       # container bottom on a trailer
 SENSOR_RANGE = 16.0
 SAFE_GAP = 0.6                        # footprint gap that counts as "path blocked"
 V_FWD, V_REV, ACC, DEC = 3.0, 1.5, 0.8, 1.5

diff --git a/docs/야드_운영_AI.md b/docs/야드_운영_AI.md
@@ -31,5 +31,6 @@
 ![경로 주행](11_야드_경로주행.png)
 ![장애물](12_야드_장애물.png)
 ![사용자 지시](13_야드_사용자지시.png)
+![정렬 후 운반](14_야드_정렬.png)
 
 실제 Ollama 모델로는 아직 시험하지 않음 (가짜 모델만).
